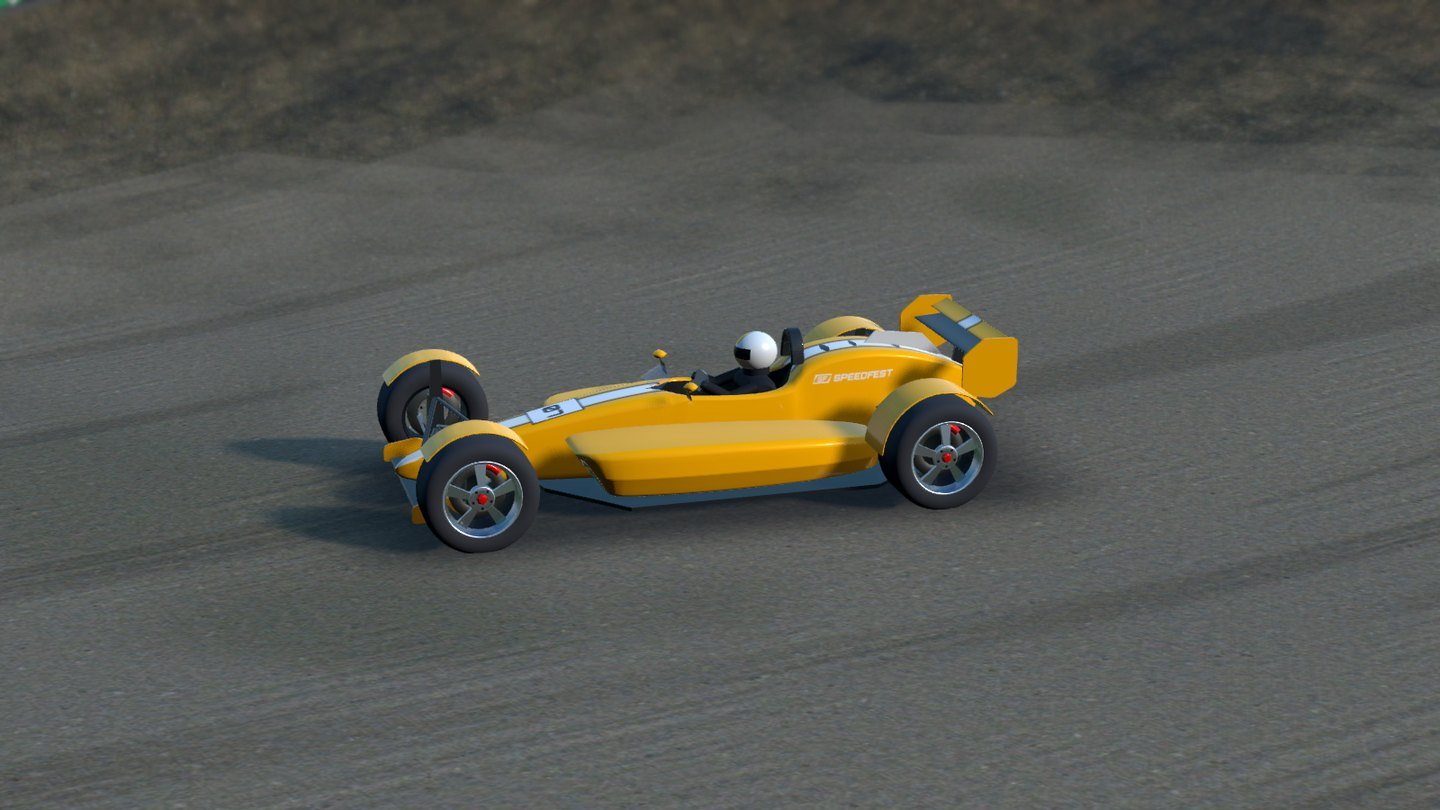
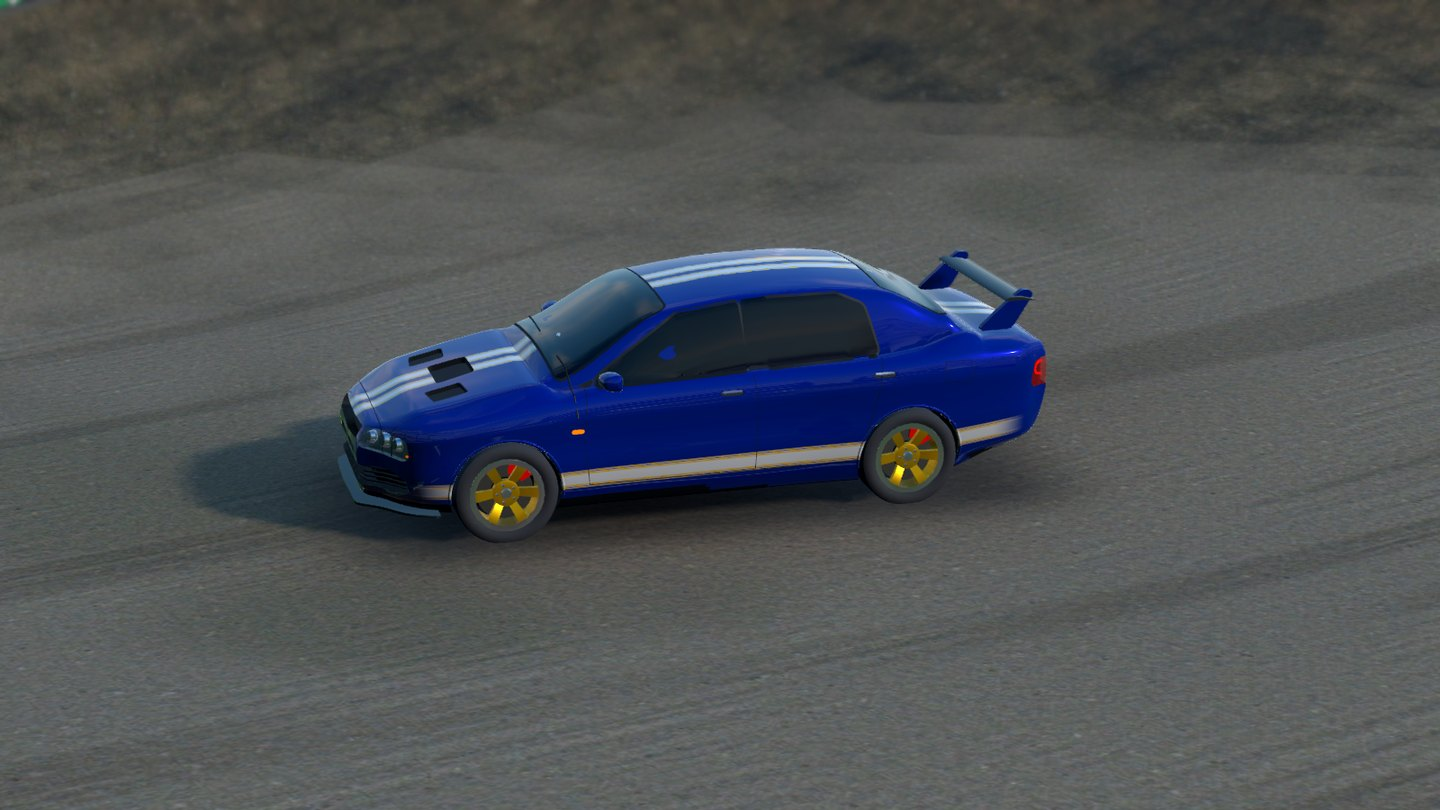
stadium: the Garage joins Tuning in the dark neon city; Home's pictures star the road cars
- TmMenu.CITY_PAGES: the Garage and Tuning stand the car in the City at night (built the first time
  the Garage opens); the shop's key light softer, the rims up, so the night and the neon lead
- the city's note under the header, over the page (notice(top))
- assets/ui/menu: Solo, Multiplayer, Story, Community and Replays re-rendered with the road cars
- test_menu: menu_garage_neon_city, menu_garage_leaves_the_city

Claude-Session: https://claude.ai/code/session_01RitvfJaqTKxAXHJwTnbjfB

Changed region(s): [[0.125, 0.3086, 0.75, 0.679]]

diff --git a/docs/HANDOFF.md b/docs/HANDOFF.md
@@ -8,8 +8,8 @@
   `menu_art.sh garage`: road cars with liveries and underglow on a City night; `menu_art.gd`'s car
   spec takes a livery and tuning). The Garage and Tuning pages wear SfUi (labels, captions, flat
   livery swatches with the vinyl's band, chosen in red).
-- Tuning's turntable stands in a neon city at night (the City track F02, built the first time
-  Tuning opens: `TmMenu._use_city`), lit like a tuning shop; the Home pictures show the road cars
+- The Garage's and Tuning's turntable stands in a dark neon city at night (the City track F02,
+  built the first time the Garage opens: `TmMenu._use_city`, `CITY_PAGES`), lit like a tuning shop; the Home pictures show the road cars
   (`menu_art.sh`). Owner said yes to moving `stadium` up to this branch, but this session's
   permission check refused the push: `git push origin claude/nice-ride-q9yx1h:stadium` (a
   fast-forward) is the owner's to run.

diff --git a/stadium/CLAUDE.md b/stadium/CLAUDE.md
@@ -77,7 +77,8 @@ Updated 2026-10-22 (`stadium` holds everything for v0.7: v0.6 + M11-2..4/M11-8 +
   (home's picture panels, rendered by `tools/icons/menu_art.sh`), Options as explained rows. The
   race's overlays keep TMNF's look for now (next). Merged into `claude/nice-ride-q9yx1h` with the
   road cars (M17) and tuning (M18): a Garage tab and Home panel, the Garage/Tuning pages in SfUi;
-  Tuning's turntable in a neon city at night (`TmMenu._use_city`: the City track F02).
+  the Garage's and Tuning's turntable in a dark neon city at night (`TmMenu._use_city`: the City
+  track F02).
 - **`stadium-v0.8` (21 Oct) is `stadium` + the neon City (PLAN M14)**; the zips carry `CREDITS-city.md`.
 - **Tuning (PLAN M18, 22 Oct, same branch):** spoilers, rims, underglow, hoods, ten choices each
   for the road cars and the hypercar (`TmRoadCars.TUNING`, `TmCarVisual.tuning`, settings

diff --git a/docs/PROGRESS.md b/docs/PROGRESS.md
@@ -3944,3 +3944,8 @@ refused by this session's permission check, so it is left to the owner).
 - Tests (`test_menu`, 53): `menu_tuning_neon_city` (the city shown, the Stadium hidden, the city's
   sky in, the turntable there, night), `menu_tuning_back_to_the_garage` (the Stadium's sky back, the
   city hidden, day).
+- Owner, after: "Dark nighy neon city vibes background". The Garage joins Tuning in the City at
+  night (`TmMenu.CITY_PAGES`; built the first time the Garage opens, kept for both); the Profile
+  keeps the Stadium. The shop's key light toned down (5.5) and the cyan/magenta rims up a little
+  (2.6), so the night and the neon lead. `test_menu` (54): `menu_garage_neon_city`,
+  `menu_garage_leaves_the_city` (home again: the Stadium's day back).

diff --git a/docs/TRANSCRIPT.md b/docs/TRANSCRIPT.md
@@ -1304,3 +1304,10 @@ PLAN M17, tuning M18, as `stadium`'s M16 is the menu look.)
 (The Home pictures re-composed with the road cars; the Tuning page's turntable moved to a neon
 city at night. Moving `stadium` up to this branch: the session's permission check refused the push
 to `stadium`, so that is left to the owner.)
+
+### User (verbatim)
+
+> Dark nighy neon city vibes background
+
+(Taken for the car pages' backdrop: the Garage joins Tuning in the City at night, the shop lights
+toned down so the night and the neon lead.)
